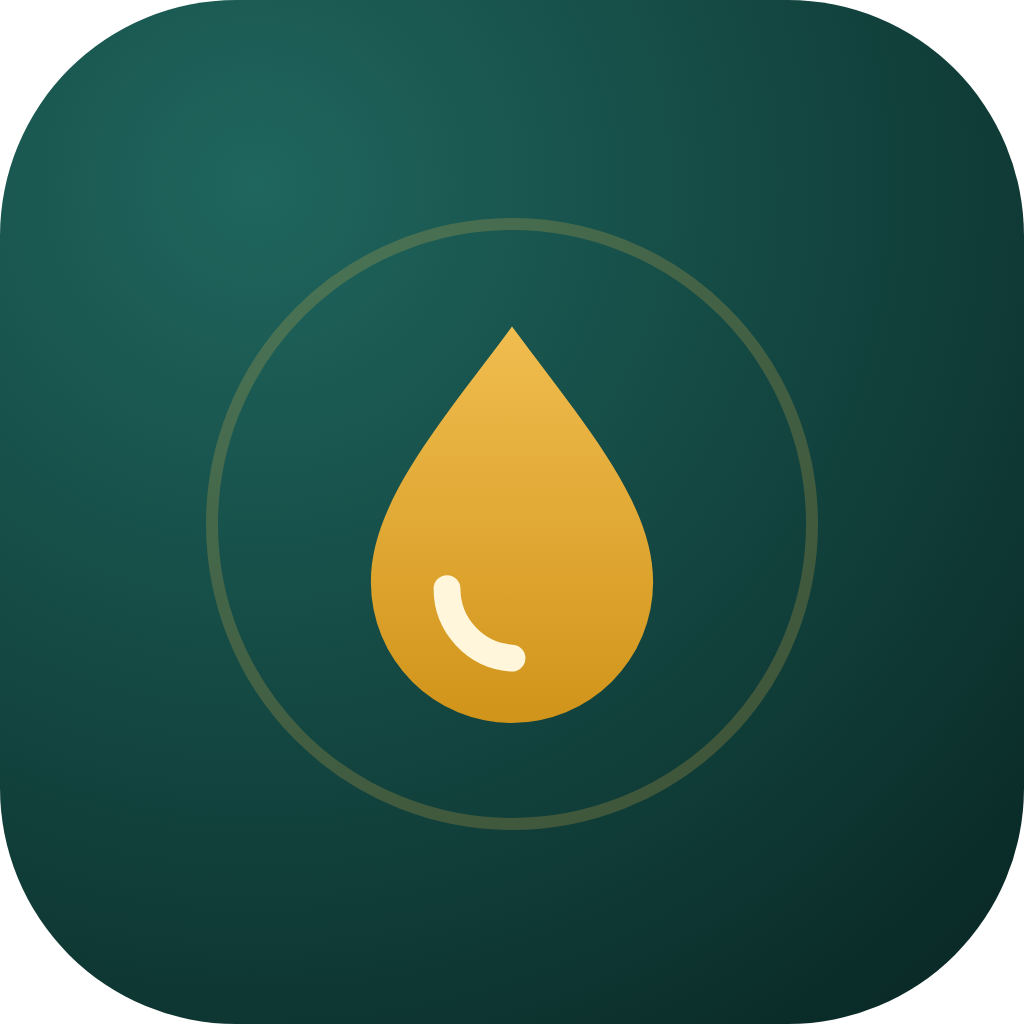
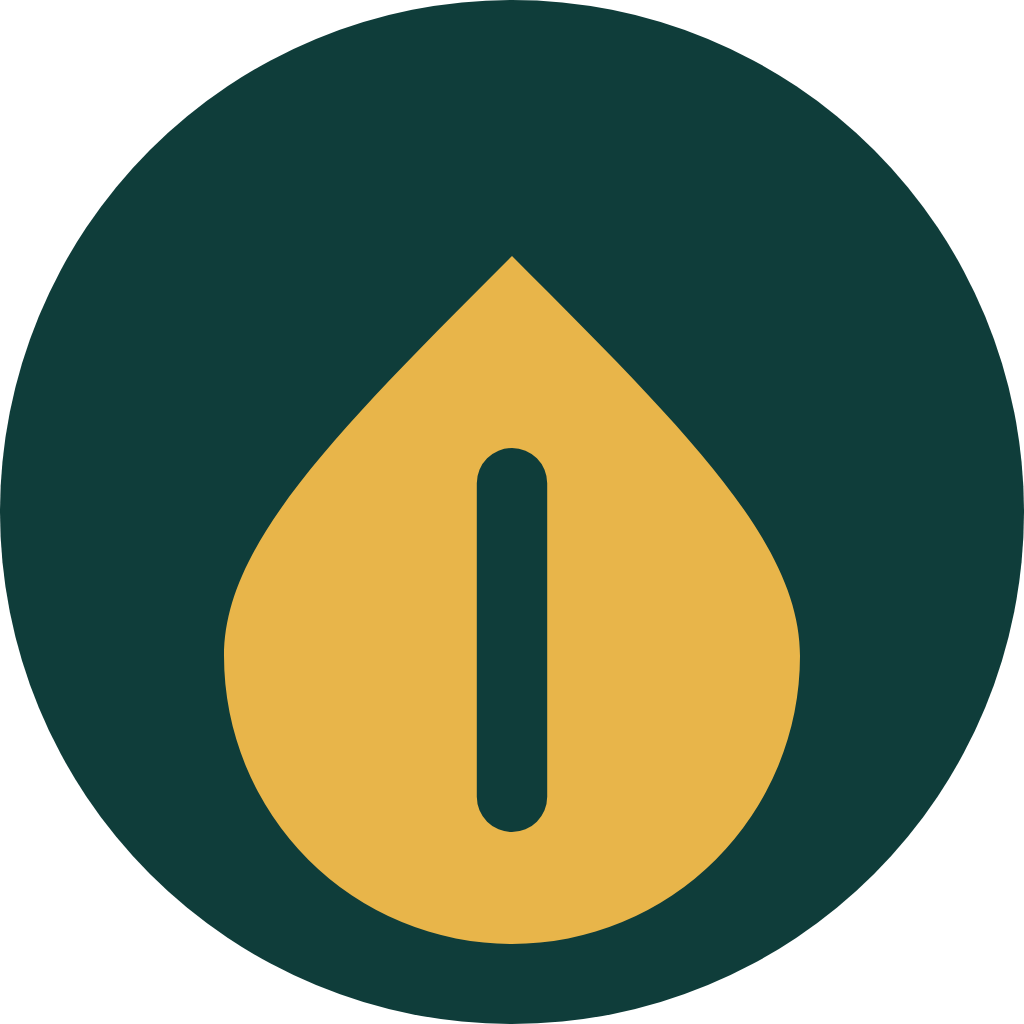
Ganti ikon ke tetes minyak tanpa gradien
Ikon lama tetes emas bergradien di atas lingkaran tipis. Bentuknya
sudah benar, tapi siluetnya hampir sama dengan lambang Hanif Dossier
sehingga sulit dibedakan di layar HP.

Versi baru membuang gradien, membuat tetesnya lebih gemuk dan lebih
rendah, lalu menambahkan batang tegak di tengah sebagai ruang negatif
mengikuti aturan keluarga lambang.

?v=3 dinaikkan ke ?v=4 dan cache service worker ke minyak-v12. Ikon di
HP karyawan akan berganti sendiri dalam beberapa hari; kalau mau cepat,
hapus aplikasinya dari layar utama lalu pasang lagi.

diff --git a/index.html b/index.html
@@ -7,8 +7,8 @@
 <meta name="theme-color" content="#0f3d3a">
 <title>Minyak Andre</title>
 <link rel="manifest" href="manifest.json">
-<link rel="icon" href="ikon.svg?v=3" type="image/svg+xml">
-<link rel="apple-touch-icon" href="ikon-any-512.png?v=3">
+<link rel="icon" href="ikon.svg?v=4" type="image/svg+xml">
+<link rel="apple-touch-icon" href="ikon-any-512.png?v=4">
 <meta name="apple-mobile-web-app-title" content="Minyak Andre">
 <meta name="application-name" content="Minyak Andre">
 <link rel="preconnect" href="https://fonts.googleapis.com">
@@ -300,7 +300,7 @@ const LS_TAWAR = 'minyak-tawar-pasang';
 function tawarkanPasang() { if (sudahTerpasang() || document.querySelector('.tawar')) return;
   try { if (Date.now() - (+localStorage.getItem(LS_TAWAR) || 0) < 3 * 864e5) return; } catch {}
   const t = document.createElement('div'); t.className = 'tawar'; t.setAttribute('role', 'dialog'); t.setAttribute('aria-label', 'Pasang aplikasi');
-  t.innerHTML = `<img src="ikon-any-192.png?v=3" alt=""><div class="isi"><b>Pasang Minyak Andre</b><span>Jadi aplikasi di HP. Gratis, ringan, tanpa Play Store.</span></div>
+  t.innerHTML = `<img src="ikon-any-192.png?v=4" alt=""><div class="isi"><b>Pasang Minyak Andre</b><span>Jadi aplikasi di HP. Gratis, ringan, tanpa Play Store.</span></div>
     <div class="aksi"><button class="pil emas kecil" id="tInstal">Instal</button><button class="pil halus kecil" id="tNanti">Nanti</button></div>`;
   document.body.append(t); requestAnimationFrame(() => requestAnimationFrame(() => t.classList.add('muncul')));
   const tutup = ingat => { if (ingat) try { localStorage.setItem(LS_TAWAR, Date.now()); } catch {} t.classList.remove('muncul'); setTimeout(() => t.remove(), 450); };

diff --git a/sw.js b/sw.js
@@ -1,6 +1,6 @@
 // Service worker sederhana: halaman selalu diambil dari jaringan dulu (supaya pembaruan langsung terasa),
 // baru jatuh ke simpanan kalau sedang tanpa internet. Panggilan ke database tidak pernah disimpan.
-const NAMA = 'minyak-v11';
+const NAMA = 'minyak-v12';
 self.addEventListener('install', e => { self.skipWaiting(); e.waitUntil(caches.open(NAMA).then(c => c.addAll(['./', 'manifest.json', 'ikon.svg']))); });
 self.addEventListener('activate', e => e.waitUntil(caches.keys().then(ks => Promise.all(ks.filter(k => k !== NAMA).map(k => caches.delete(k)))).then(() => self.clients.claim())));
 self.addEventListener('fetch', e => { const u = new URL(e.request.url);
